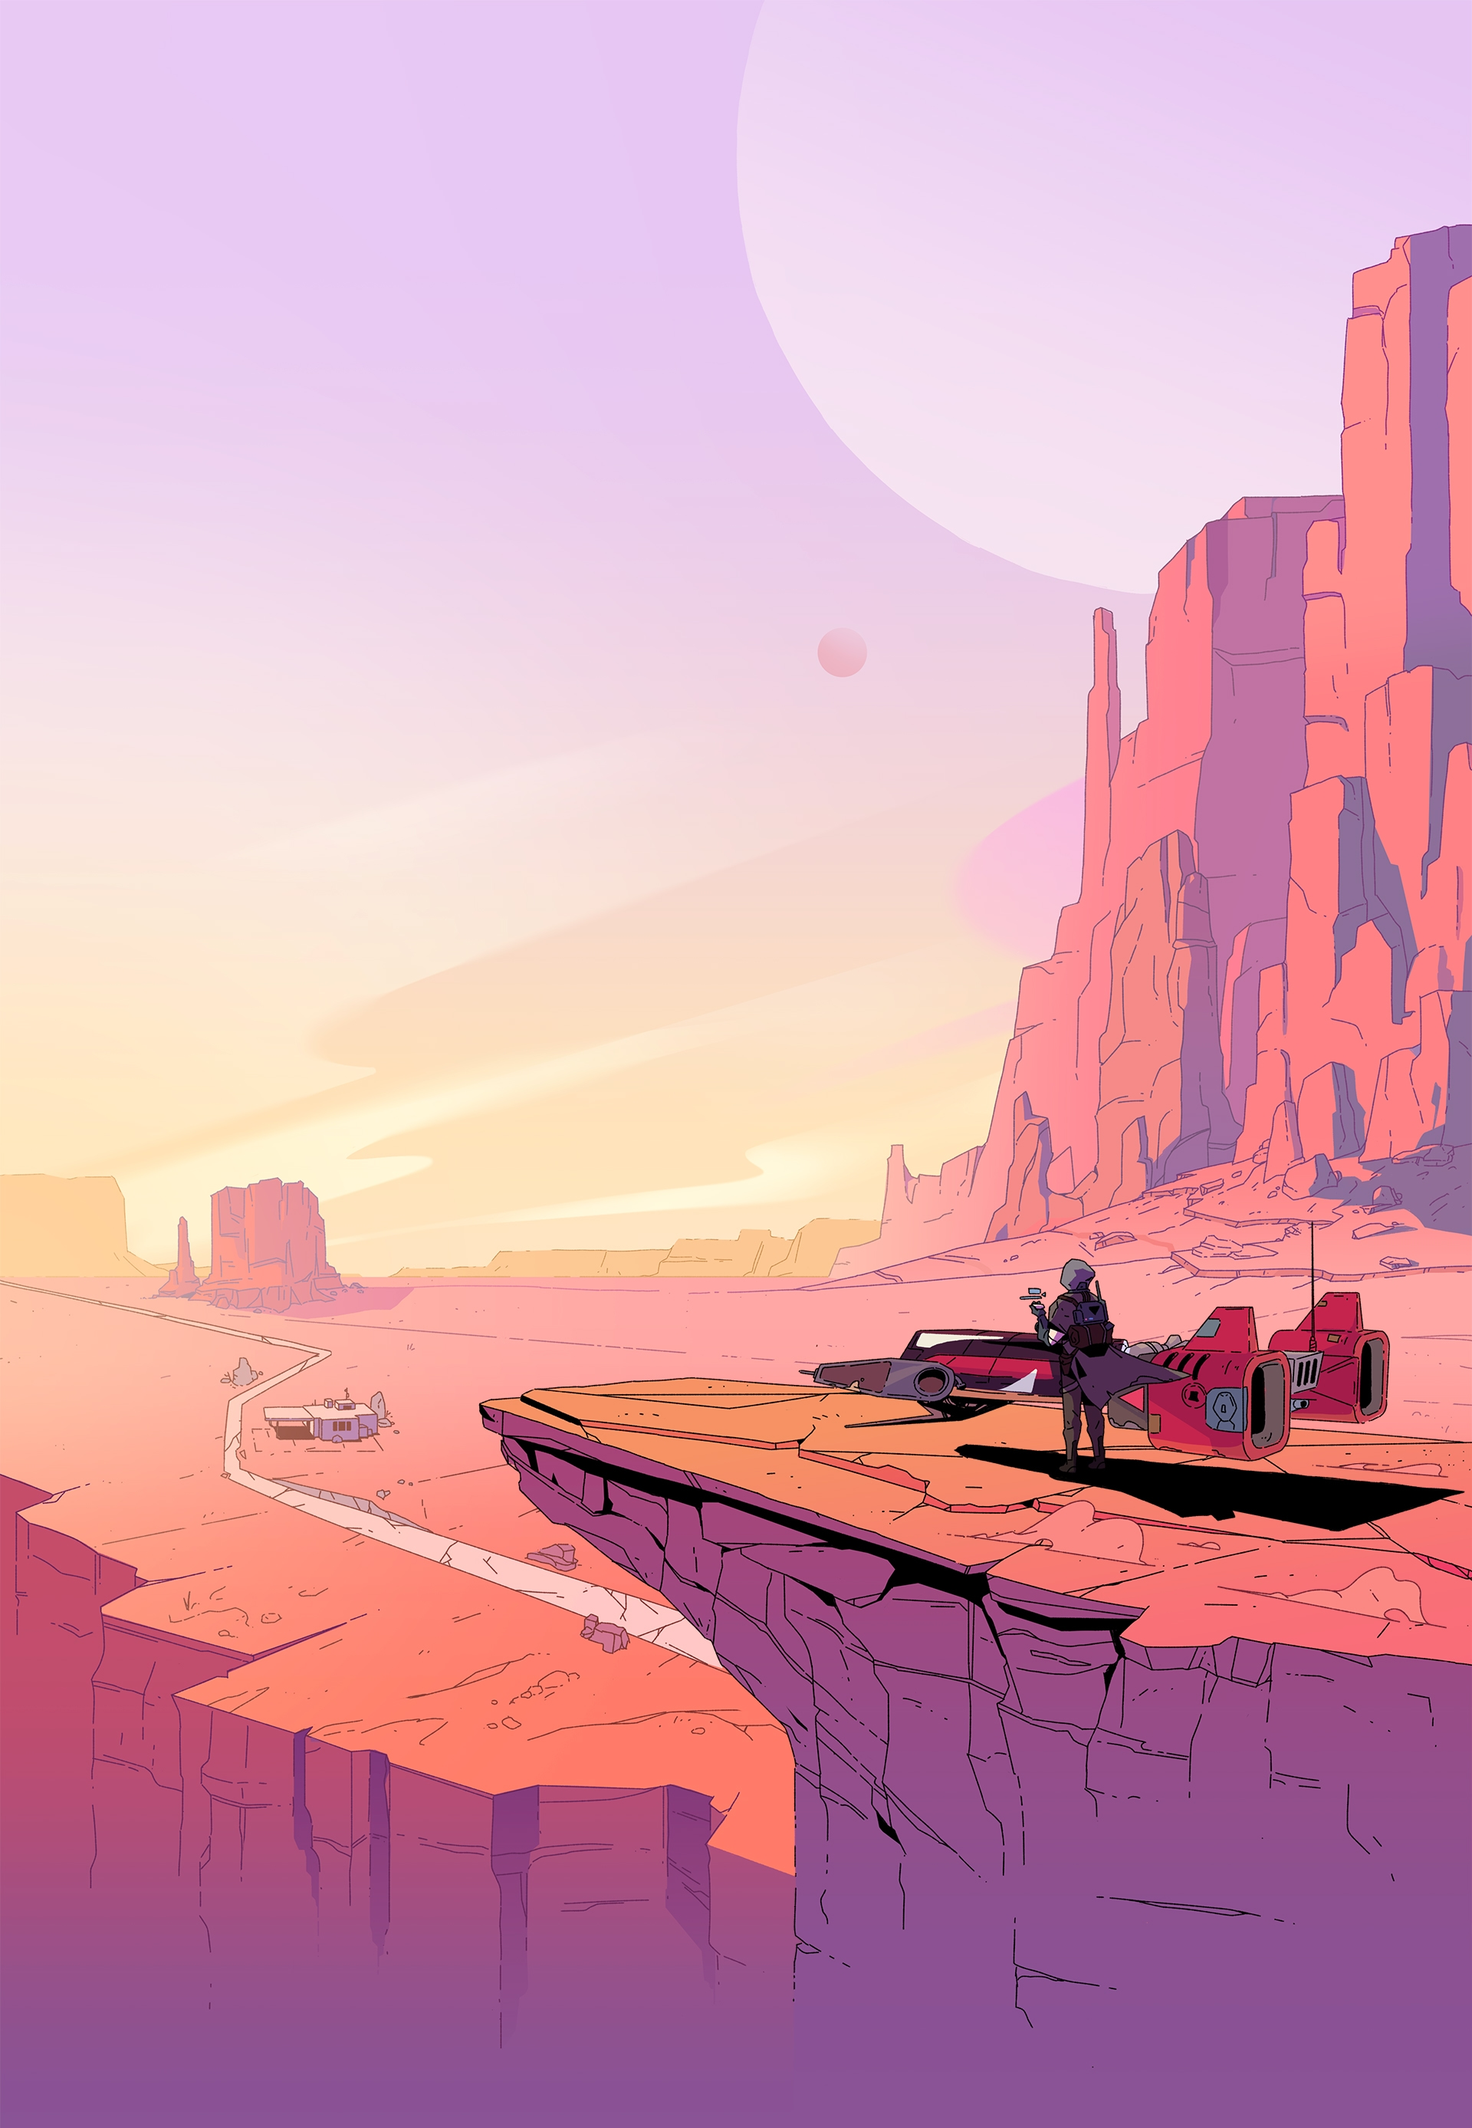
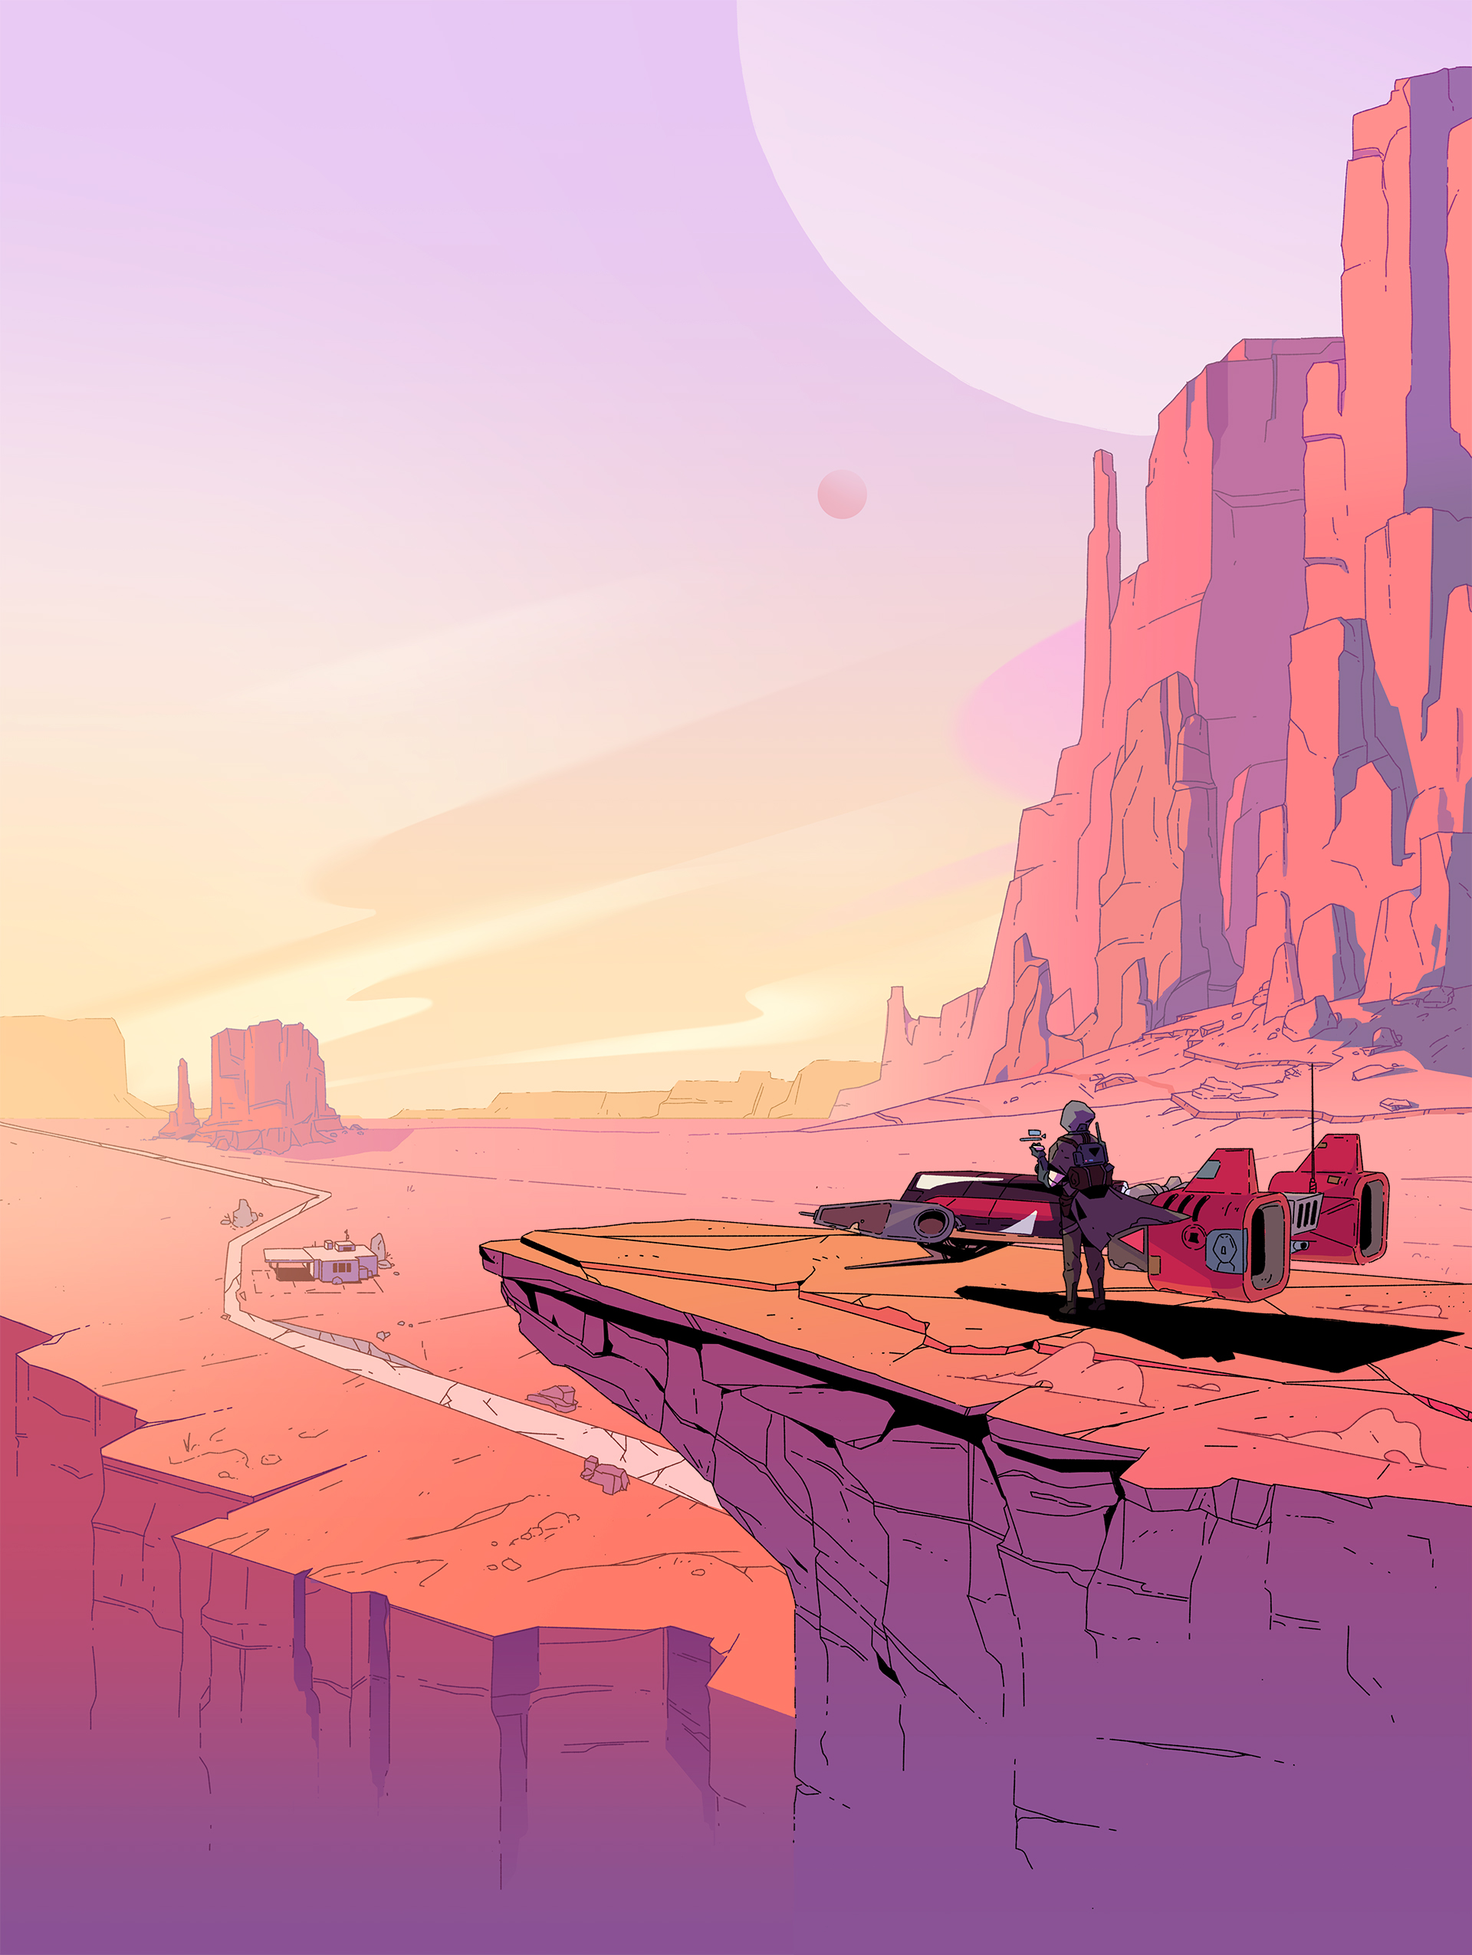
fix responsiveness

Changed region(s): [[0.0, 0.031, 1.0, 0.8675], [0.5625, 0.2478, 0.5938, 0.3408], [0.5, 0.8675, 0.5312, 0.8984]]

diff --git a/pages/index.vue b/pages/index.vue
@@ -2,11 +2,11 @@
   <div>
     <!-- Header -->
     <header class="bg-navbar">
-      <nav class="container px-6 md:px-8 lg:px-16 flex items-center py-2">
+      <nav class="container px-6 md:px-9 lg:px-16 flex items-center py-2">
         <div class="py-4">
           <img src="~assets/img/logo-black.svg" alt="Tableland" class="h-5">
         </div>
-        <ul class="hidden md:flex flex-1 justify-end items-center gap-x-10 lg:gap-x-24 uppercase text-sm pr-20">
+        <ul class="hidden sm:flex flex-1 justify-end items-center gap-x-10 lg:gap-x-24 uppercase text-sm">
           <li><a href="https://textile.notion.site/Our-mission-is-to-accelerate-the-exchange-of-information-across-society-f49e389e12e14473a3475e755a8d9cd6">About</a></li>
           <li><a href="https://discord.gg/7WDqyanQ" target="_blank">Join Us</a></li>
           <li><a href="https://docs.tableland.xyz">Docs</a></li>
@@ -17,18 +17,18 @@
 
     <!-- hero -->
     <section class="hero">
-      <div class="container px-6 md:px-9 lg:px-16 flex items-center py-48">
+      <div class="container px-6 md:px-9 lg:px-16 flex items-center pt-36">
         <div class="lg:w-2/3 xl:w-1/2">
-          <h1 class="font-Orbitron text-4xl md:text-6xl lg:text-7xl lg:leading-tighter mb-10">
+          <h1 class="font-Orbitron text-4xl md:text-5xl lg:text-6xl xl:text-7xl leading-tighter mb-10">
             Build web3 with <span class="font-black">SQL</span>
           </h1>
-          <p class="text-2xl md:text-3xl md:leading-normal font-light mb-18">
+          <p class="text-2xl md:text-3xl leading-normal md:leading-normal font-light mb-18">
             Tableland is a network and relational metadata protocol for EVM chains like Ethereum. Built for developers, NFT creators, and web3 visionaries.
           </p>
-          <div class="text-center lg:text-left mb-100">
+          <div class="text-center lg:text-left mb-50">
             <ButtonLink href="https://docs.tableland.xyz">Get started</ButtonLink>
           </div>
-          <p class="text-3xl md:text-4xl lg:text-4.5xl lg:leading-snug font-medium">
+          <p class="text-3xl md:text-4xl lg:text-4.25xl leading-normal md:leading-normal lg:leading-snug font-medium">
             Use familiar SQL tables to read and write dynamic NFT metadata or application data–all orchestrated by token networks like Ethereum.
           </p>
         </div>
@@ -39,7 +39,7 @@
     <section class="garage">
       <div class="container px-6 md:px-9 lg:px-16 flex items-center">
         <div class="lg:w-2/3 xl:w-1/2">
-          <p class="text-white text-2xl md:text-3xl md:leading-normal font-light mb-18">
+          <p class="text-white text-2xl md:text-3xl leading-normal md:leading-normal font-light mb-18">
             Tableland isn't a new database—it’s just web3-native relational tables.
           </p>
           <div class="text-center lg:text-left">
@@ -47,23 +47,23 @@
           </div>
         </div>
       </div>
-      <div class="container px-6 md:px-9 lg:px-24 lg:flex pt-70 justify-between">
-        <div class="lg:w-1/3 xl:w-1/4">
-          <div class="text-white mb-80">
-            <p class="playbook-left bg-purple text-3xl px-6 py-4 font-medium rounded">Store NFT metadata</p>
+      <div class="playbooks container px-6 md:px-9 lg:px-24 lg:flex justify-between">
+        <div class="lg:w-1/3 xl:w-1/3">
+          <div class="text-white playbook">
+            <p class="playbook-left bg-purple text-2xl lg:text-3xl px-6 py-4 font-medium rounded">Store NFT metadata</p>
           </div>
 
           <div class="text-white">
-            <p class="playbook-left bg-purple text-3xl p-4 font-medium rounded">Extend existing NFTs</p>
+            <p class="playbook-left bg-purple text-2xl lg:text-3xl px-6 py-4 font-medium rounded">Extend existing NFTs</p>
           </div>
         </div>
-        <div class="lg:w-1/3 xl:w-1/4">
-          <div class="text-white mb-70">
-            <p class="playbook-right bg-purple text-3xl p-4 font-medium rounded">Control table access</p>
+        <div class="lg:w-1/3 xl:w-1/3">
+          <div class="text-white playbook">
+            <p class="playbook-right bg-purple text-2xl lg:text-3xl px-6 py-4 font-medium rounded">Control table access</p>
           </div>
 
           <div class="text-white">
-            <p class="playbook-right bg-purple text-3xl p-4 font-medium rounded">Compose with tables</p>
+            <p class="playbook-right bg-purple text-2xl lg:text-3xl px-6 py-4 font-medium rounded">Compose with tables</p>
           </div>
         </div>
       </div>
@@ -74,17 +74,17 @@
       <div class="garage-break"></div>
       <div class="container px-6 md:px-9 lg:px-16 flex pt-20 2xl:pb-68">
         <div class="lg:w-2/3 xl:w-1/2">
-          <h3 class="font-Orbitron text-4xl md:text-6xl lg:text-7xl lg:leading-tighter mb-10">
+          <h3 class="font-Orbitron text-4xl md:text-5xl lg:text-6xl xl:text-7xl leading-tighter mb-10">
             In Tableland, we speak SQL
           </h3>
-          <p class="text-2xl md:text-3xl md:leading-normal font-light mb-1">
+          <p class="text-2xl md:text-3xl leading-normal md:leading-normal font-light mb-1">
             1 – The bulk of digital information is stored in relational tables.
           </p>
-          <p class="text-2xl md:text-3xl md:leading-normal font-light mb-1">
+          <p class="text-2xl md:text-3xl leading-normal md:leading-normal font-light mb-1">
             2 – Your familiar SQL tables are stored on a decentralized network of validators
             and anchored to Ethereum as transferable NFTs, providing ownership and access control.
           </p>
-          <p class="text-2xl md:text-3xl md:leading-normal font-light mb-4">
+          <p class="text-2xl md:text-3xl leading-normal md:leading-normal font-light mb-4">
             3 – Easy as pie, right?
           </p>
         </div>
@@ -96,7 +96,7 @@
       <section class="tables relative text-white hidden">
         <div class="container px-6 md:px-9 lg:px-16 flex justify-end">
           <div class="lg:w-2/3 xl:w-1/2">
-            <h3 class="font-Orbitron text-4xl md:text-6xl lg:text-7xl lg:leading-tighter mb-10">
+            <h3 class="font-Orbitron text-4xl md:text-5xl lg:text-6xl xl:text-7xl leading-tighter mb-10">
             </h3>
             <p class="text-2xl md:text-3xl md:leading-normal font-light mb-18">
             </p>
@@ -108,13 +108,13 @@
       </section>
 
       <!-- playground -->
-      <section class="playground text-white pt-24">
-        <div class="container px-6 md:px-9 lg:px-16 pt-24 flex justify-center">
+      <section class="playground text-white pt-32">
+        <div class="container px-6 md:px-9 lg:px-16 flex justify-center">
           <div class="md:w-1/2">
-            <h3 class="font-Orbitron text-4xl md:text-6xl lg:text-7xl lg:leading-tighter mb-10">
+            <h3 class="font-Orbitron text-4xl md:text-5xl lg:text-6xl xl:text-7xl leading-tighter mb-10">
               Try it out
             </h3>
-            <p class="text-2xl md:text-3xl md:leading-normal font-light mb-10">
+            <p class="text-2xl md:text-3xl leading-normal md:leading-normal font-light mb-10">
               Go ahead! Don't take our word for it.
             </p>
             <playground></playground>
@@ -126,13 +126,13 @@
     <!-- community -->
     <section class="community relative">
       <div class="container px-6 md:px-9 lg:px-16">
-        <div class="community-top pt-100">
+        <div class="community-top pt-70">
           <div class="md:w-2/3 xl:w-1/2">
-            <h3 class="font-Orbitron text-4xl md:text-6xl lg:text-7xl lg:leading-tighter mb-10">
+            <h3 class="font-Orbitron text-4xl md:text-5xl lg:text-6xl xl:text-7xl leading-tighter mb-10">
               Join the community
             </h3>
-            <p class="text-2xl md:text-3xl md:leading-normal font-light mb-18">
-              Whether you're a developer, NFT creator, token holder, or just curious about Web3, there's a place for you in Tableland. Join a fast-growing community of innovators from all over the world.
+            <p class="text-2xl md:text-3xl leading-normal md:leading-normal font-light mb-18">
+              Whether you're a developer, NFT creator, token holder, or just curious about web3, there's a place for you in Tableland. Join a fast-growing community of innovators from all over the world.
             </p>
             <div class="text-center lg:text-left">
               <ButtonLink href="https://discord.gg/7WDqyanQ">Join us on Discord</ButtonLink>
@@ -140,13 +140,13 @@
           </div>
         </div>
 
-        <div class="community-bottom flex justify-end text-white">
-          <div class="sm:w-3/4 md:w-2/3 xl:w-1/2">
-            <h3 class="font-Orbitron text-4xl md:text-6xl lg:text-7xl lg:leading-tighter mb-10">
+        <div class="community-bottom md:flex justify-center md:justify-end text-white">
+          <div class="md:w-2/3 xl:w-1/2">
+            <h3 class="font-Orbitron text-4xl md:text-5xl lg:text-6xl xl:text-7xl lg:leading-tighter mb-10">
               User-owned token networks are the future of the internet
             </h3>
-            <p class="text-2xl md:text-3xl md:leading-normal font-light">
-              Tableland is a the meta layer for web3. It encompasses everything from NFT metadata, social, financial, machine-learning, and research data, or anything else. Tableland tables are also own-able, tradable, and interoperable assets on their parent networks.
+            <p class="text-2xl md:text-3xl leading-normal md:leading-normal font-light">
+              Tableland is the meta-layer of web3. It encompasses everything from NFT metadata, social, financial, machine-learning, research data, or anything else. Tableland tables are also NFTs themselves, making them own-able, tradable, and composable assets.
             </p>
           </div>
         </div>
@@ -156,10 +156,10 @@
 
     <!-- phases -->
     <section class="phases mb-48 hidden">
-      <div class="container px-6 md:px-8 lg:px-12">
+      <div class="container px-6 md:px-9 lg:px-16">
         <div class="mb-62">
           <div class="xl:w-1/2">
-            <h3 class="font-Orbitron text-4xl md:text-6xl lg:text-7xl lg:leading-tighter mb-10">
+            <h3 class="font-Orbitron text-4xl md:text-5xl lg:text-6xl xl:text-7xl leading-tighter mb-10">
             </h3>
             <p class="font-Orbitron text-2xl md:text-3xl lg:text-4.5xl mb-5"></p>
             <div class="bg-black text-white py-8 md:py-10 lg:py-14 px-10 md:px-12 lg:px-16 rounded-3xl">
@@ -174,7 +174,7 @@
 
         <div class="mb-62 xl:mb-14 xl:flex xl:justify-end">
           <div class="xl:w-1/2">
-            <h3 class="font-Orbitron text-4xl md:text-6xl lg:text-7xl lg:leading-tighter mb-10">
+            <h3 class="font-Orbitron text-4xl md:text-5xl lg:text-6xl xl:text-7xl leading-tighter mb-10">
             </h3>
             <p class="font-Orbitron text-2xl md:text-3xl lg:text-4.5xl mb-5"></p>
             <div class="bg-black text-white py-8 md:py-10 lg:py-14 px-10 md:px-12 lg:px-16 rounded-3xl">
@@ -189,7 +189,7 @@
 
         <div class="mb-48">
           <div class="xl:w-1/2">
-            <h3 class="font-Orbitron text-4xl md:text-6xl lg:text-7xl lg:leading-tighter mb-10">
+            <h3 class="font-Orbitron text-4xl md:text-5xl lg:text-6xl xl:text-7xl leading-tighter mb-10">
             </h3>
             <p class="font-Orbitron text-2xl md:text-3xl lg:text-4.5xl mb-5"></p>
             <div class="bg-black text-white py-8 md:py-10 lg:py-14 px-10 md:px-12 lg:px-16 rounded-3xl">
@@ -212,7 +212,7 @@
     <!-- showcase -->
     <section class="md:block showcase pt-24 pb-32 relative">
       <div class="showcase-break hidden"></div>
-      <div class="container px-6 md:px-8 lg:px-12">
+      <div class="container px-6 md:px-9 lg:px-16">
         <div class="slider flex gap-x-3.5 mb-32 hidden">
           <div class="bg-white pt-8 lg:pt-14 pb-120 px-10 lg:px-16 rounded-7xl lg:rounded-8xl slide active" @click="handleSliderClick">
             <div class="md:w-1/2 xl:w-1/3">
@@ -247,11 +247,11 @@
     </section>
 
     <footer class="text-white py-10">
-      <nav class="container px-6 md:px-8 lg:px-12 flex items-center py-2">
-        <div class="hidden sm:inline-block py-4">
+      <nav class="container px-6 md:px-9 lg:px-16 flex items-center py-2">
+        <div class="hidden lg:inline-block py-4">
           <img src="~assets/img/logo-white.svg" alt="Tableland" class="h-5">
         </div>
-        <ul class="flex flex-1 justify-end items-center gap-x-3 sm:gap-x-6 md:gap-x-12 xl:gap-x-24 uppercase text-sm pr-20">
+        <ul class="flex flex-1 justify-end items-center gap-x-3 sm:gap-x-6 md:gap-x-12 xl:gap-x-24 uppercase text-sm">
           <li><a href="https://hhueol4i6vp.typeform.com/to/sgtDW2Xt">Token Info</a></li>
           <li><a href="https://docs.tableland.xyz/general/community/partners">Partners</a></li>
           <li><a href="https://textile.notion.site/Tableland-Privacy-Policy-6fd160e7f485491d9dc4cbab188043d5">Privacy Policy</a></li>

diff --git a/assets/css/globals.css b/assets/css/globals.css
@@ -43,8 +43,8 @@ body {
 
 /** hero **/
 .hero {
-	background: center -8rem / cover no-repeat url('~assets/img/hero.jpg');
-	padding-bottom: 73rem;
+	background: center center / cover no-repeat url('~assets/img/hero.jpg');
+  height: 2550px;
 }
 
 @media
@@ -57,7 +57,22 @@ body {
 
 /** garage **/
 .garage {
-	background: center -26rem / cover no-repeat url('~assets/img/garage.jpg');
+	background: center center / cover no-repeat url('~assets/img/garage.jpg');
+  height: 1450px;
+}
+
+.playbooks {
+  padding-top: 14rem;
+}
+
+@media (max-width: 1024px) {
+  .playbooks {
+    display: none;
+  }
+}
+
+.playbook {
+  margin-bottom: 25rem;
 }
 
 p.playbook-left {
@@ -71,7 +86,7 @@ p.playbook-right {
 }
 
 .garage-break {
-	background: left / cover no-repeat url('~assets/img/break_1.svg');
+	background: center / cover no-repeat url('~assets/img/break_1.svg');
 	height: 184px;
 }
 
@@ -83,16 +98,10 @@ p.playbook-right {
   }
 }
 
-@media (min-width: 1900px) {
-  .garage {
-    padding-bottom: 30rem;
-  }
-}
-
 /** sql **/
 .sql {
-	background: center bottom / cover no-repeat url('~assets/img/sql.jpg');
-  padding-bottom: 54rem;
+	background: center center / cover no-repeat url('~assets/img/sql.jpg');
+  height: 1875px;
 }
 
 @media
@@ -131,7 +140,7 @@ p.playbook-right {
 }
 
 .playground {
-  background: -62rem -14rem / 190% no-repeat url('~assets/img/clouds.png');
+  background: -50rem -11rem / 175% no-repeat url('~assets/img/clouds.png');
 }
 
 @media
@@ -144,7 +153,8 @@ p.playbook-right {
 
 /** community **/
 .community {
-	background: center top / cover no-repeat url('~assets/img/community.jpg');
+	background: center center / cover no-repeat url('~assets/img/community.jpg');
+  height: 3353px;
 }
 
 @media
@@ -164,7 +174,7 @@ p.playbook-right {
 }
 
 .community-break {
-	background: left / cover no-repeat url('~assets/img/break_4.svg');
+	background: center / cover no-repeat url('~assets/img/break_4.svg');
 	height: 184px;
   position: absolute;
   bottom: 0;
@@ -177,7 +187,7 @@ p.playbook-right {
 }
 
 .showcase-break {
-	background: left / cover no-repeat url('~assets/img/break_3.svg');
+	background: center / cover no-repeat url('~assets/img/break_3.svg');
 	height: 184px;
   position: absolute;
   top: 0;

diff --git a/tailwind.config.js b/tailwind.config.js
@@ -4,6 +4,7 @@ export default {
   theme: {
     extend: {
       fontSize: {
+        '4.25xl': '2.5rem',
         '4.5xl': '2.75rem',
         '5xl': '3.5rem',
         '6xl': '4.25rem',
@@ -16,6 +17,7 @@ export default {
       spacing: {
         18: '4.2rem',
         30: '7.8rem',
+        50: '14.5rem',
         62: '15.5rem',
         68: '17rem',
         70: '19rem',

diff --git a/components/Playground.vue b/components/Playground.vue
@@ -271,7 +271,7 @@ export default {
 
 .web-terminal {
   font-family: monospace;
-  height: calc(22rem + 10vw);
+  height: calc(16rem + 10vw);
   /* Hide scrollbar for IE, Edge and Firefox */
   -ms-overflow-style: none;  /* IE and Edge */
   scrollbar-width: none;  /* Firefox */
